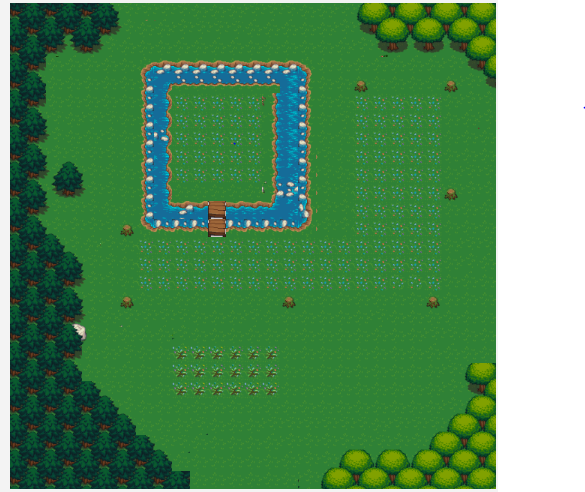
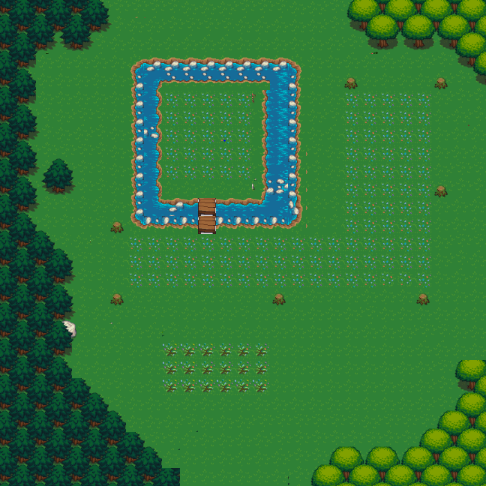
changing window size

diff --git a/js/world.js b/js/world.js
@@ -62,12 +62,11 @@ earthChant.World.prototype = {
 	this.infoBox;
 	//list of deforestation info
 	this.infolist = ["Almost half of world’s timber and up \n to 70% of paper is consumed by \n Europe, United States and \n Japan alone.","25% of cancers \n fighting organisms \n are found in the amazon.","20% of the world’s oxygen \n is produced in the \n Amazon forest.","The rate of deforestation equals \n to loss of 20 football fields \n every minute."]; 
-	
    },
   create: function() {
 	// bounds and color of world (negatives sets bounds beyond top left)
-	this.game.world.setBounds( 0, 0, 2000, 2000);
-	this.game.stage.backgroundColor = '#007000';
+	this.game.world.setBounds(0, 0, 980, 690);
+	this.game.stage.backgroundColor = '#808080';
 	
 	// map of world
 	this.map = this.game.add.sprite(0,0,'map');
@@ -162,7 +161,6 @@ earthChant.World.prototype = {
 	// adds a delay before input can be taken
 	this.game.time.events.add(Phaser.Timer.SECOND*2, this.enableKeys, this);
 	
-
 	// camera follow character (As easy as that!)
 	this.game.camera.follow(this.player);
 

diff --git a/js/battle.js b/js/battle.js
@@ -55,6 +55,7 @@ earthChant.Battle.prototype = {
 //setting vars, functions, and objects
 // Almost Every object, var, and function needs 'this' because it attaches it to our main game(stores in cache it)
 create: function(){
+	this.game.stage.backgroundColor = '#007000';
 
 	//  DO NOT NEED TO SET UP VARIABLE FOR EACH OBJECT (apprently)
 	// you can manipulate a lot of properties from here
@@ -70,7 +71,7 @@ create: function(){
 	this.randomScale_max = 5;   
 	this.power; 			// var that controls power of attacks (changes depending on attack chosen)
 	this.attackPower = 6;  //specifices the exact power stat of attack (should be put in seperate list)
-	this.attackPower2 = 6;
+	this.attackPower2 = 60;
 	this.potionRegen = 30;     //amount of health gained 
 	this.enemyDelayTime = .75;  // amount of seconds between enemy hti and attack animations
 	this.player;

diff --git a/js/startscreen.js b/js/startscreen.js
@@ -22,7 +22,7 @@ earthChant.StartScreen.prototype = {
 
 	create: function() {
 		this.background = this.game.add.sprite(0,0,'background');
-		this.game.stage.backgroundColor = '#FFFFFF'; //back ground color
+		this.game.stage.backgroundColor = '#808080'; //back ground color
 		
 		this.logo = this.game.add.sprite(100,150,'logo');  //logo
 		this.logo.scale.setTo(.8, .8);  //resizing logo
